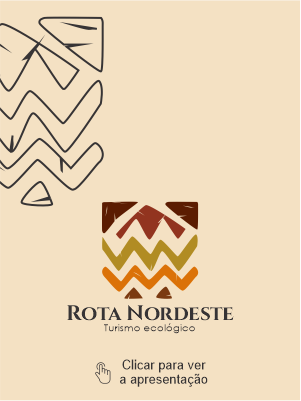
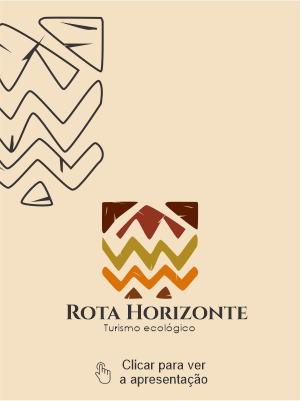
atualização de projeto Rota Horizonte

Changed region(s): [[0.2093, 0.7481, 0.8372, 0.808]]

diff --git a/projetoDesign.html b/projetoDesign.html
@@ -49,8 +49,8 @@
                                     <div class="projetocenter"><img class="imagemproj" src="/assets/projetosDesigner/rota nordeste.png" alt="..." /></div>
                                     <div class="d-flex align-items-center">
                                         <div class="p-5">
-                                            <h2 class="fw-bolder text">Projeto Rota Nordeste</h2>
-                                            <p class="text">A nova logomarca Rota Nordeste foi inspirada nas paisagens de picos e na rica tradição da xilogravura, elementos emblemáticos do Nordeste brasileiro. Com um design que mescla relevos de montanhas e detalhes artísticos, o logo captura a essência cultural e natural da região. Este símbolo visual celebra a beleza e a história do Nordeste, transmitindo autenticidade e conexão com suas raízes.</p>
+                                            <h2 class="fw-bolder text">Projeto Rota Horizonte</h2>
+                                            <p class="text">A nova logomarca Rota Horizonte foi inspirada nas paisagens de picos e na rica tradição da xilogravura, elementos emblemáticos do Nordeste brasileiro. Com um design que mescla relevos de montanhas e detalhes artísticos, o logo captura a essência cultural e natural da região. Este símbolo visual celebra a beleza e a história do Nordeste, transmitindo autenticidade e conexão com suas raízes.</p>
                                         </div>
                                     </div>
                                    
